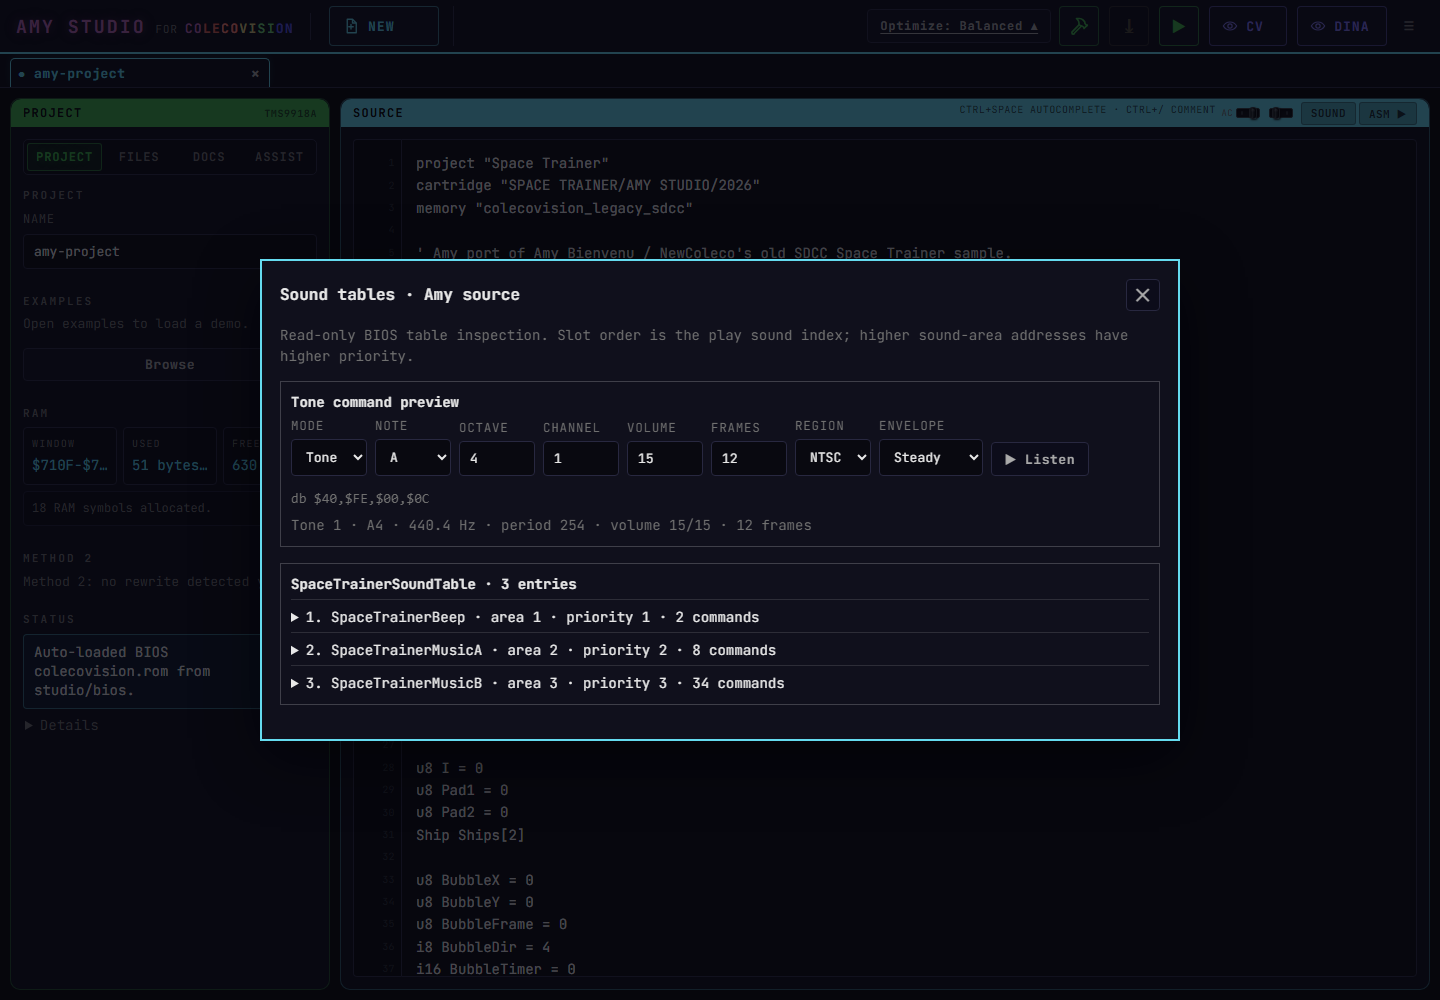
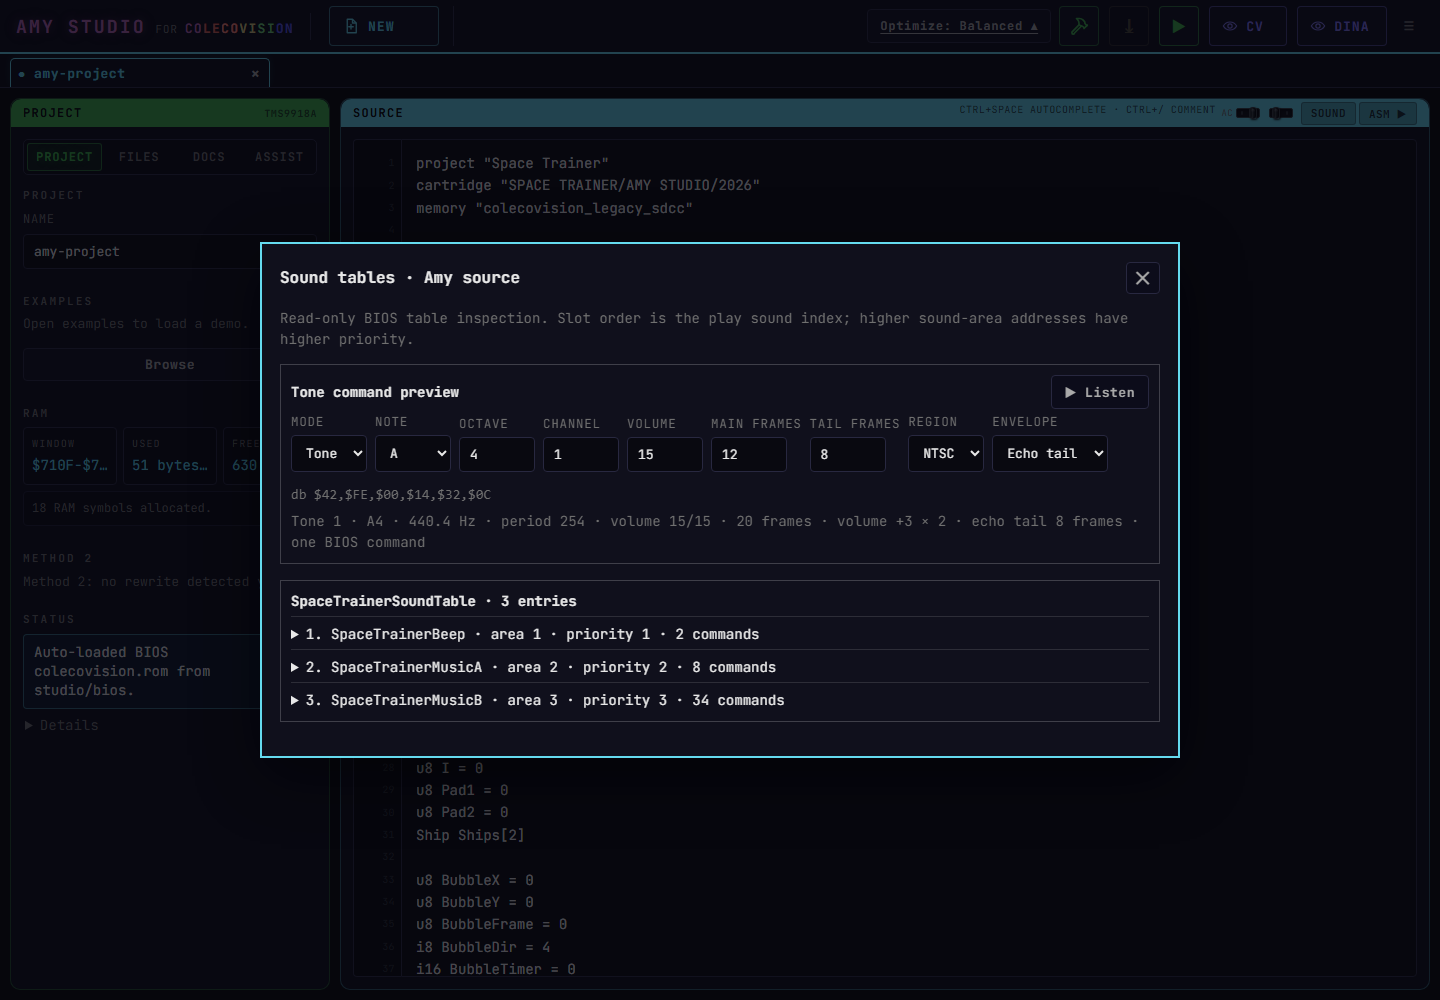
Add compact BIOS echo-tail sound envelope

diff --git a/studio/core/projectFileUi.js b/studio/core/projectFileUi.js
@@ -4,7 +4,7 @@ import { isGraphicsEditorsProjectFile, parseGraphicsEditorsConfig } from "./grap
 import { TMS9918_PALETTE, drawTmsTileToContext } from "./graphicsTms9918.js?v=20260724-compact-mode2-colors";
 import { isEditableProjectTextPath, openProjectTextEditor } from "./projectFileTextEditor.js?v=20260729-project-asm-editor";
 import { inspectProjectSoundFile, inspectSoundTableSource } from "./soundTableInspector.js?v=20260903-address-expressions";
-import { buildColecoBassNote, buildColecoNoise, buildColecoToneNote, COLECO_NOISE_MODES, describeColecoSoundEvent } from "./colecoSoundNotes.js";
+import { buildColecoBassNote, buildColecoEchoTone, buildColecoNoise, buildColecoToneNote, COLECO_NOISE_MODES, describeColecoSoundEvent } from "./colecoSoundNotes.js";
 import { previewColecoSoundEvents } from "./colecoSoundPreview.js?v=20260903-command-preview";
 
 export function createProjectFileUiHelpers({
@@ -2605,6 +2605,8 @@ export function createProjectFileUiHelpers({
     builder.className = "graphics-editor-modal__item sound-command-builder";
     const builderHeading = document.createElement("strong");
     builderHeading.textContent = "Tone command preview";
+    const builderHeader = document.createElement("div");
+    builderHeader.className = "sound-command-builder__header";
     const controls = document.createElement("div");
     controls.className = "sound-command-builder__controls";
     const fields = [
@@ -2614,9 +2616,10 @@ export function createProjectFileUiHelpers({
       ["Channel", "number", null, "1"],
       ["Volume", "number", null, "15"],
       ["Frames", "number", null, "12"],
+      ["Tail frames", "number", null, "8"],
       ["Noise", "select", COLECO_NOISE_MODES.map((name, index) => `${index}: ${name}`), `4: ${COLECO_NOISE_MODES[4]}`],
       ["Region", "select", ["NTSC", "PAL"], "NTSC"],
-      ["Envelope", "select", ["Steady", "Fade out"], "Steady"]
+      ["Envelope", "select", ["Steady", "Fade out", "Echo tail"], "Steady"]
     ];
     const inputs = {};
     const fieldLabels = {};
@@ -2648,7 +2651,7 @@ export function createProjectFileUiHelpers({
     playPreview.type = "button";
     playPreview.textContent = "▶ Listen";
     playPreview.title = "Preview through SN76489-compatible synthesis";
-    controls.appendChild(playPreview);
+    builderHeader.append(builderHeading, playPreview);
     const preview = document.createElement("pre");
     const previewDescription = document.createElement("span");
     let currentPreview = null;
@@ -2658,6 +2661,8 @@ export function createProjectFileUiHelpers({
       fieldLabels.octave.hidden = mode === "Noise";
       fieldLabels.channel.hidden = mode !== "Tone";
       fieldLabels.noise.hidden = mode !== "Noise";
+      fieldLabels["tail frames"].hidden = inputs.envelope.value !== "Echo tail";
+      fieldLabels.frames.firstChild.nodeValue = inputs.envelope.value === "Echo tail" ? "Main frames" : "Frames";
     }
     function updateTonePreview() {
       try {
@@ -2672,7 +2677,11 @@ export function createProjectFileUiHelpers({
           region: inputs.region.value,
           fade: inputs.envelope.value === "Fade out"
         };
-        const result = inputs.mode.value === "Bass"
+        const result = inputs.envelope.value === "Echo tail" && inputs.mode.value === "Tone"
+          ? buildColecoEchoTone({ ...options, mainFrames: options.length, tailFrames: Number(inputs["tail frames"].value) })
+          : inputs.envelope.value === "Echo tail"
+            ? (() => { throw new Error("Echo tail currently applies to Tone mode."); })()
+          : inputs.mode.value === "Bass"
           ? buildColecoBassNote(options)
           : inputs.mode.value === "Noise"
             ? buildColecoNoise(options)
@@ -2703,7 +2712,7 @@ export function createProjectFileUiHelpers({
     });
     controls.addEventListener("input", updateTonePreview);
     updateTonePreview();
-    builder.append(builderHeading, controls, preview, previewDescription);
+    builder.append(builderHeader, controls, preview, previewDescription);
     const list = document.createElement("div");
     list.className = "graphics-editor-modal__list";
     for (const table of analysis.tables) {

diff --git a/studio/core/colecoSoundNotes.js b/studio/core/colecoSoundNotes.js
@@ -161,6 +161,33 @@ export function buildColecoToneNote(options) {
   };
 }
 
+export function buildColecoEchoTone({ note, octave, channel = 1, volume = 15, mainFrames = 12, tailFrames = 8, drop = 3, region = "NTSC" }) {
+  if (!Number.isInteger(mainFrames) || mainFrames < 1 || mainFrames > 16) {
+    throw new Error("A single-command echo needs 1..16 main frames.");
+  }
+  if (!Number.isInteger(tailFrames) || tailFrames < 1 || mainFrames + tailFrames > 256) {
+    throw new Error("Echo tail must keep the total duration within 256 frames.");
+  }
+  if (!Number.isInteger(volume) || volume < 1 || volume > 15) throw new Error("Echo volume must be 1..15.");
+  if (!Number.isInteger(drop) || drop < 1 || drop > 15) throw new Error("Echo drop must be 1..15 attenuation steps.");
+  const attenuation = 15 - volume;
+  if (attenuation + drop > 15) throw new Error("Echo tail would wrap the hardware attenuation.");
+  const bytes = encodeToneCommand({
+    channel,
+    period: notePeriod(note, octave, region),
+    attenuation,
+    length: mainFrames + tailFrames,
+    volumeSweep: { step: drop, count: 2, stepLength: 16, firstLength: mainFrames }
+  });
+  const decoded = decodeColecoSoundStream([...bytes, 0x50]);
+  return {
+    bytes,
+    asm: formatColecoSoundBytes(bytes),
+    event: decoded.events[0],
+    description: `${describeColecoSoundEvent(decoded.events[0], { region })} · echo tail ${tailFrames} frames · one BIOS command`
+  };
+}
+
 export function encodeBassNote({ note, octave, length, region = "NTSC", lfsr = 15, volume = 15, fade = false }) {
   if (![15, 16].includes(lfsr)) throw new Error("Bass LFSR must be 15 or 16.");
   if (!Number.isInteger(length) || length < 1 || length > 256) throw new Error("Sound length must be 1..256.");

diff --git a/studio/core/colecoSoundPreview.js b/studio/core/colecoSoundPreview.js
@@ -5,16 +5,23 @@ function amplitudeForAttenuation(attenuation) {
   return 0.24 * (10 ** ((-2 * attenuation) / 20));
 }
 
-function scheduleVolume(gain, event, start, frameSeconds) {
+function volumeEnvelopeForEvent(event) {
   let attenuation = event.attenuation ?? 15;
-  gain.setValueAtTime(amplitudeForAttenuation(attenuation), start);
+  const points = [{ frame: 0, attenuation }];
   const sweep = event.volumeSweep;
-  if (!sweep) return;
+  if (!sweep) return points;
   let frame = sweep.firstLength;
-  for (let index = 0; index < sweep.count && frame < event.length; index += 1) {
-    attenuation = Math.min(15, attenuation + sweep.step);
-    gain.setValueAtTime(amplitudeForAttenuation(attenuation), start + (frame * frameSeconds));
+  for (let index = 1; index < sweep.count && frame < event.length; index += 1) {
+    attenuation = (attenuation + sweep.step) & 0x0f;
+    points.push({ frame, attenuation });
     frame += sweep.stepLength;
+  }
+  return points;
+}
+
+function scheduleVolume(gain, event, start, frameSeconds) {
+  for (const point of volumeEnvelopeForEvent(event)) {
+    gain.setValueAtTime(amplitudeForAttenuation(point.attenuation), start + (point.frame * frameSeconds));
   }
 }
 
@@ -93,4 +100,4 @@ export async function previewColecoSoundEvents(events, { region = "NTSC" } = {})
   await context.close();
 }
 
-export { amplitudeForAttenuation };
+export { amplitudeForAttenuation, volumeEnvelopeForEvent };

diff --git a/studio/styles.css b/studio/styles.css
@@ -2079,6 +2079,13 @@ input:focus, select:focus {
   gap: 8px;
 }
 
+.sound-command-builder__header {
+  display: flex;
+  align-items: center;
+  justify-content: space-between;
+  gap: 12px;
+}
+
 .sound-command-builder__controls label {
   display: grid;
   gap: 3px;
@@ -2096,7 +2103,7 @@ input:focus, select:focus {
 }
 
 .sound-command-builder__controls label[data-sound-field="envelope"] select {
-  width: 104px;
+  width: 116px;
 }
 
 .sound-command-builder__controls button {

diff --git a/docs/audio-workflow.md b/docs/audio-workflow.md
@@ -13,6 +13,8 @@ Amy Studio currently supports three playback families, plus one historical recon
 
 Coleco BIOS sound composition remains technical because its compact commands directly describe PSG periods, attenuation, duration, sweeps, and sound-area behavior. Existing tools and legacy data can be imported, validated, and hand-optimized, but Amy Studio does not yet provide a finished integrated visual BIOS sound composer.
 
+The source sound inspector includes a small command authoring preview. `Echo tail` models a sustained note followed by a quieter tail: a volume-sweep step of `+3` is approximately -6 dB, and a BIOS sweep count of `2` means one transition because the count includes the initial volume. The first-transition delay is a four-bit value, so a single-command echo can hold its main volume for only 1..16 frames. Longer musical echoes need multiple commands or another sound-table area.
+
 DSound is not the WAV-to-notes converter. It preserves a short waveform as digital amplitude samples. Amy's historical `WAV2CV3` instead uses FFT analysis to extract dominant frequencies and strengths over time, then produces ordinary PSG tone commands that can coexist with gameplay. See [Legacy WAV to ColecoVision PSG Reconstruction](legacy-wav-to-coleco-psg-reconstruction.md).
 
 ## PSG Music and Sound Effects (lib4ksa)

diff --git a/docs/amy-studio-tools-gallery.md b/docs/amy-studio-tools-gallery.md
@@ -25,6 +25,8 @@ This capture verifies that the inspector fits at 1440x1000 and keeps its close c
 
 To reproduce it, open `PROJECT` > `Browse` > `Space Trainer`, then choose `SOURCE` > `SOUND`. Music-box projects also expose their included ASM sound files from `FILES`.
 
+The command preview offers `Steady`, `Fade out`, and `Echo tail`. Echo tail holds the main volume, then drops by about 6 dB for the remaining frames. It uses one six-byte BIOS command when the main section is at most 16 frames; the tool rejects larger values rather than silently emitting a different effect.
+
 ## Project Files
 
 Open `FILES` to reach tools attached to individual project resources.
